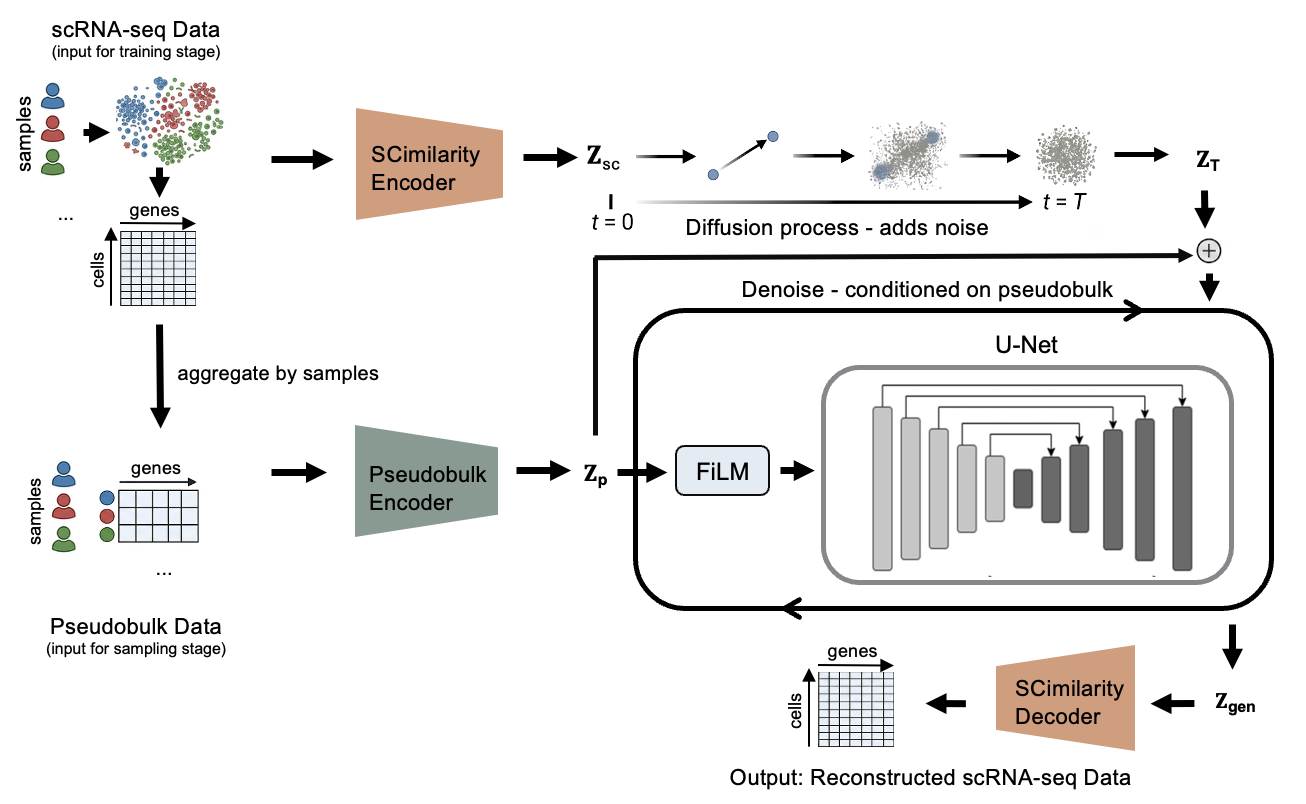
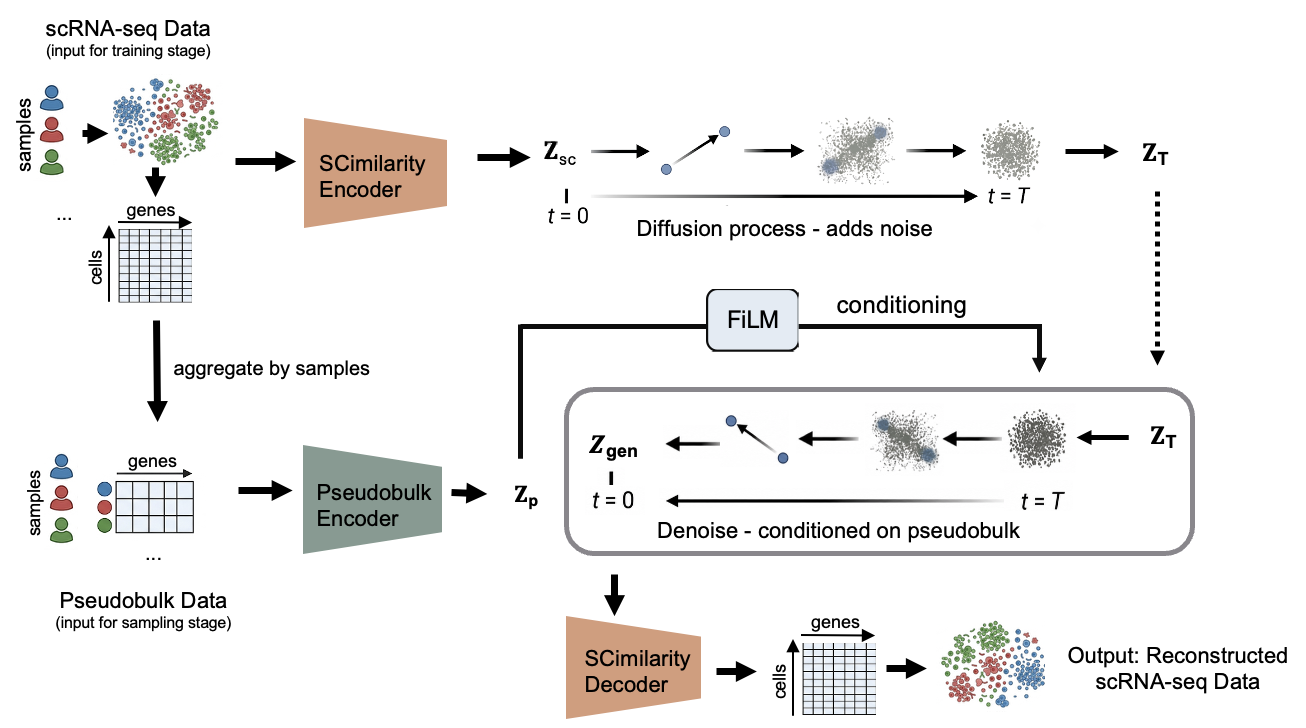
update model workflow pic

Changed region(s): [[0.0, 0.1209, 0.9801, 0.9973], [0.0, 0.0302, 0.1838, 0.4533]]

diff --git a/split_brca.py b/split_brca.py
@@ -1,4 +1,4 @@
-"""Write the fixed BRCA2021 subtype-balanced sample split files.
+"""Write the fixed BRCA subtype-balanced sample split files.
 
 Implements a strict 80/20 train/test split (21 train, 5 test out of 26 total)
 with balanced cancer-subtype representation in both sets.  The assignment is

diff --git a/README.md b/README.md
@@ -12,8 +12,8 @@ A pretrained SCimilarity encoder first projects single cells into a shared laten
 
 | dataset | reference | train | held-out | notes |
 |----------|-----------|---------:|---------:|-------|
-| AML  | van Galen et al., 2019 | 32 | 9 | MUTZ3 and OCI-AML3 cell-line samples excluded |
-| BRCA | Wu et al., 2021 | 21 | 5 | Fixed subtype-balanced split |
+| AML  | [van Galen et al., 2019](https://doi.org/10.1016/j.cell.2019.01.031) | 32 | 9 | MUTZ3 and OCI-AML3 cell-line samples excluded |
+| BRCA | [Wu et al., 2021](https://doi.org/10.1038/s41588-021-00911-1) | 21 | 5 | Fixed subtype-balanced split |
 
 - Both models were trained for **1 million diffusion steps**.
 - Held-out samples were never used during diffusion model training and were reserved exclusively for evaluating model generalization.
